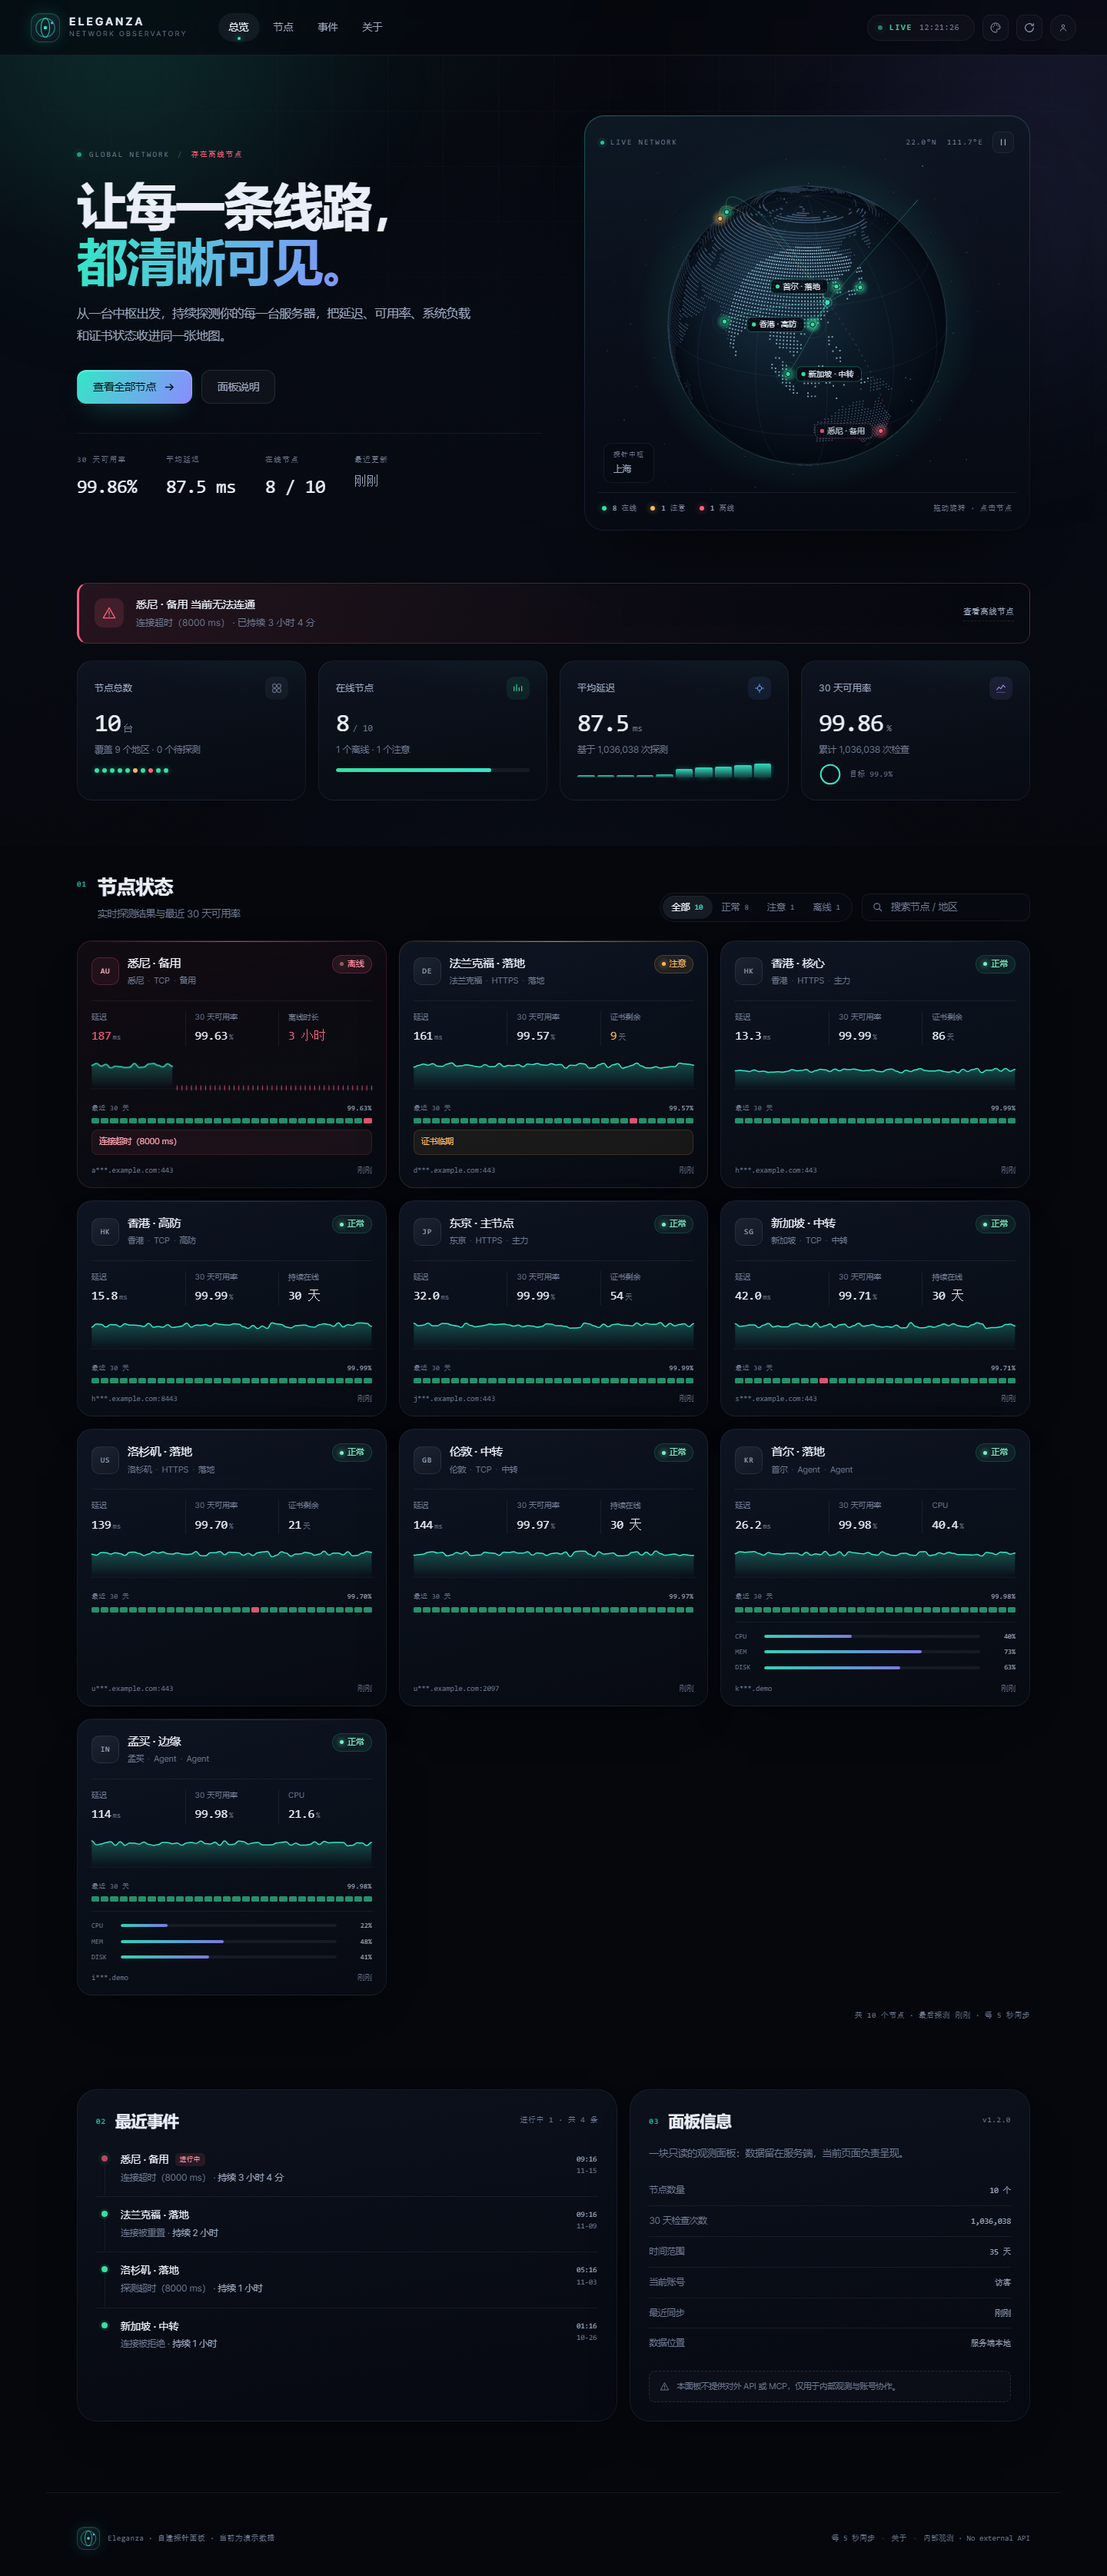
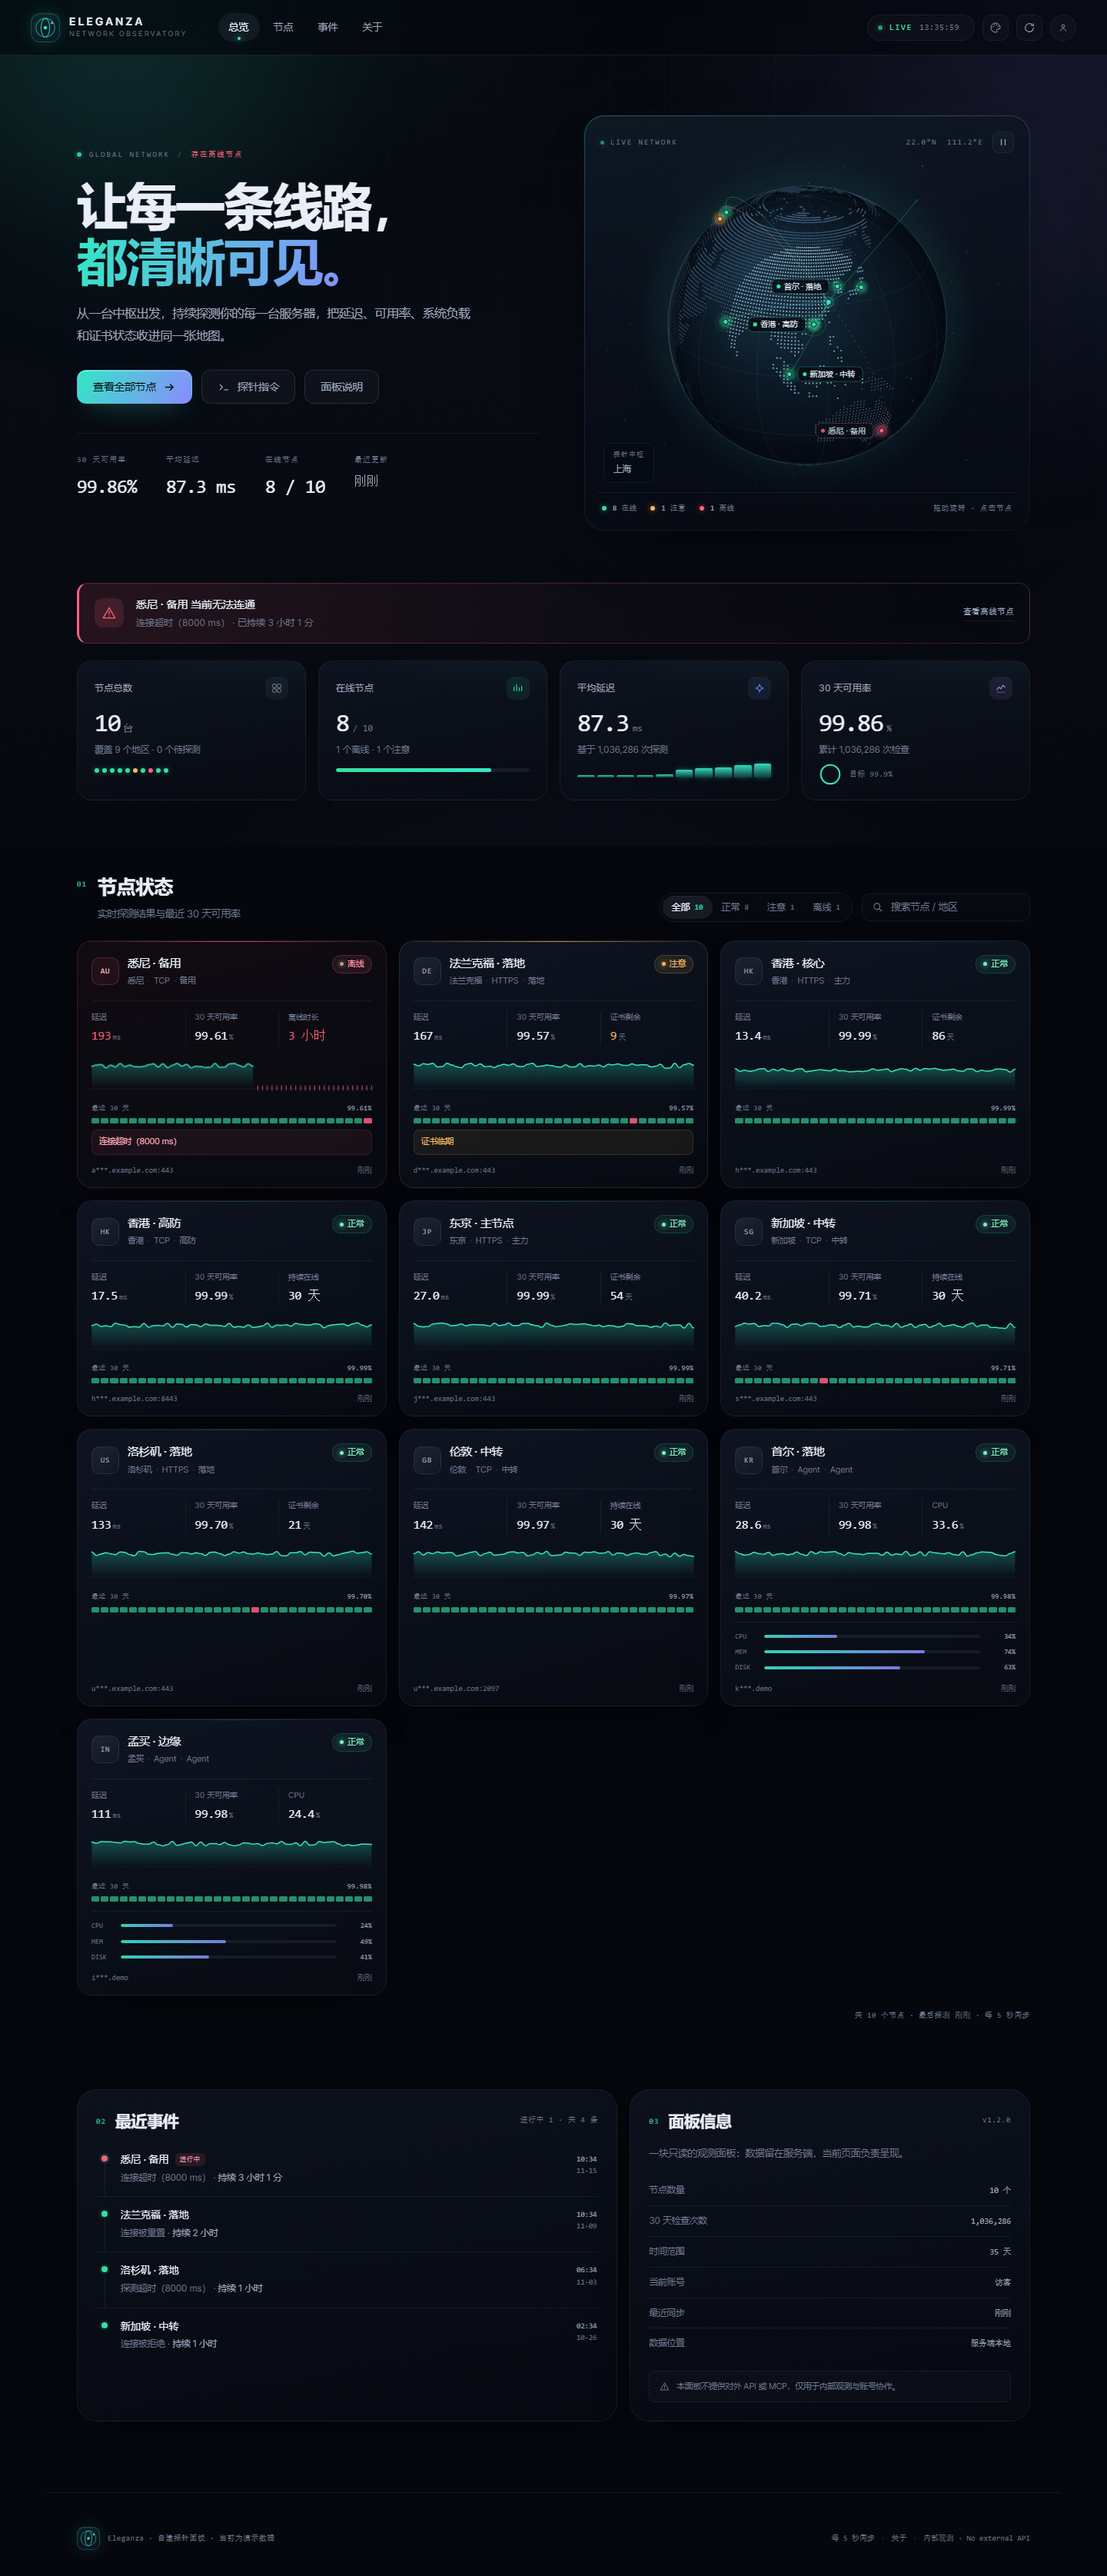
panel: add site-bound probe install command dialog

Changed region(s): [[0.625, 0.0931, 0.7812, 0.1552], [0.75, 0.1552, 0.8125, 0.1863], [0.1562, 0.4036, 0.2188, 0.4346]]

diff --git a/public/app.js b/public/app.js
@@ -53,6 +53,7 @@ const state = {
 const els = {
   clock: $('#clock'),
   refresh: $('#refresh-button'),
+  probeCommandButton: $('#probe-command-button'),
   appearanceButton: $('#appearance-button'),
   appearancePopover: $('#appearance-popover'),
   accountButton: $('#account-button'),
@@ -141,6 +142,27 @@ function escapeHtml(value) {
 function formatNumber(value) {
   if (value == null || !Number.isFinite(Number(value))) return '—';
   return Number(value).toLocaleString('en-US');
+}
+
+async function copyText(text) {
+  try {
+    if (navigator.clipboard?.writeText) {
+      await navigator.clipboard.writeText(text);
+      return;
+    }
+  } catch {
+    // Some HTTP origins expose the API but reject the write; use the fallback.
+  }
+  const area = document.createElement('textarea');
+  area.value = text;
+  area.setAttribute('readonly', '');
+  area.style.position = 'fixed';
+  area.style.top = '-9999px';
+  document.body.append(area);
+  area.select();
+  const copied = document.execCommand('copy');
+  area.remove();
+  if (!copied) throw new Error('copy failed');
 }
 
 function formatLatency(value) {
@@ -1272,6 +1294,63 @@ function closeDialog() {
   if (els.authModal.hidden) document.body.classList.remove('modal-open');
 }
 
+function panelBaseUrl() {
+  const configured = state.overview?.site?.publicUrl;
+  try {
+    const parsed = new URL(configured || location.origin);
+    if (parsed.protocol === 'http:' || parsed.protocol === 'https:') return parsed.origin;
+  } catch {
+    // Fall through to the address currently serving the panel.
+  }
+  return location.origin;
+}
+
+function openProbeCommandDialog() {
+  const base = panelBaseUrl();
+  const fromConfig = Boolean(state.overview?.site?.publicUrl);
+  const fallbackNote = fromConfig
+    ? ''
+    : '<p class="probe-footnote">当前使用浏览器访问地址。如果这是 127.0.0.1 或 SSH 隧道地址，请在 config.json 中把 <code>site.publicUrl</code> 设置为对外域名。</p>';
+  const command = `curl -fsSL https://raw.githubusercontent.com/TCNNM/eleganza/main/agent/install-agent.sh \\
+  | sudo env ELEGANZA_SERVICES="nginx xray" ELEGANZA_MOUNTS="/ /var" \\
+    bash -s -- '${base}' '<AGENT_TOKEN>'`;
+
+  openDialog({
+    kicker: 'AGENT INSTALL',
+    title: '探针快捷安装',
+    subtitle: `当前站点：${base}`,
+    body: `
+      <div class="dialog-section">
+        <p class="dialog-lead">在目标服务器的 SSH 中执行下面命令。脚本会自动下载 Agent、写入 systemd 服务并启动。</p>
+        <div class="info-cell probe-site-cell">
+          <span>当前绑定站点${fromConfig ? ' · site.publicUrl' : ' · 当前访问地址'}</span>
+          <strong>${escapeHtml(base)}</strong>
+        </div>
+        <div class="code-block">
+          <div class="code-head">
+            <span>AGENT INSTALL · SYSTEMD</span>
+            <button class="copy-button" type="button" data-copy-target="probe-command-code" data-label="复制命令">复制命令</button>
+          </div>
+          <pre id="probe-command-code" tabindex="0">${escapeHtml(command)}</pre>
+        </div>
+      </div>
+      <div class="dialog-section">
+        <h3>执行前</h3>
+        <ol class="probe-steps">
+          <li>先在面板的 <code>config.json</code> 中为这台服务器添加 <code>type: "agent"</code> 节点。</li>
+          <li>把命令中的 <code>&lt;AGENT_TOKEN&gt;</code> 替换成该节点的 <code>agentKey</code>。</li>
+          <li>目标服务器需要能访问 <code>${escapeHtml(base)}</code>，并装有 curl 或 wget。</li>
+        </ol>
+        <p class="probe-footnote">每台服务器使用独立的 agentKey。安装完成后用 <code>journalctl -u eleganza-agent -f</code> 查看日志。</p>
+        ${fallbackNote}
+        <a class="panel-link" href="https://github.com/TCNNM/eleganza#agent" target="_blank" rel="noreferrer">
+          查看完整 Agent 安装说明
+          <svg viewBox="0 0 20 20" fill="none" aria-hidden="true"><path d="M7 4h9v9M16 4 6 14" stroke="currentColor" stroke-width="1.5" stroke-linecap="round" stroke-linejoin="round"/></svg>
+        </a>
+      </div>`,
+  });
+}
+
 function dialogError(container, message) {
   let box = container.querySelector('.form-error');
   if (!box) {
@@ -1506,6 +1585,7 @@ function init() {
   setupGlobe();
 
   els.refresh.addEventListener('click', () => refreshOverview());
+  els.probeCommandButton?.addEventListener('click', openProbeCommandDialog);
 
   els.appearanceButton.addEventListener('click', (event) => {
     event.stopPropagation();
@@ -1630,6 +1710,29 @@ function init() {
   document.addEventListener('click', (event) => {
     if (!event.target.closest('.popover') && !event.target.closest('#appearance-button') && !event.target.closest('#account-button')) {
       closePopovers();
+    }
+  });
+  document.addEventListener('click', async (event) => {
+    const button = event.target.closest('[data-copy-target]');
+    if (!button) return;
+    const target = document.getElementById(button.dataset.copyTarget);
+    if (!target) return;
+    const label = button.dataset.label || button.textContent;
+    try {
+      await copyText(target.textContent);
+      button.textContent = '已复制';
+      button.classList.add('is-done');
+      setTimeout(() => {
+        button.textContent = label;
+        button.classList.remove('is-done');
+      }, 1600);
+    } catch {
+      const selection = window.getSelection();
+      const range = document.createRange();
+      range.selectNodeContents(target);
+      selection.removeAllRanges();
+      selection.addRange(range);
+      toast('复制失败，已选中命令，请按 Ctrl+C');
     }
   });
   document.addEventListener('visibilitychange', () => {

diff --git a/public/appearance.css b/public/appearance.css
@@ -803,6 +803,47 @@ body.modal-open {
   color: var(--text-2);
 }
 
+.dialog-lead {
+  margin: 0 0 12px;
+  font-size: 12px;
+  line-height: 1.75;
+  color: var(--text-2);
+}
+
+.probe-site-cell {
+  margin-bottom: 12px;
+}
+
+.probe-steps {
+  margin: 0 0 12px;
+  padding-left: 18px;
+  font-size: 11.5px;
+  line-height: 1.8;
+  color: var(--text-2);
+}
+
+.probe-steps li {
+  margin-bottom: 5px;
+  padding-left: 2px;
+}
+
+.probe-steps code,
+.probe-footnote code {
+  padding: 1px 4px;
+  border-radius: 3px;
+  background: rgba(var(--accent-rgb), 0.07);
+  font-family: var(--font-mono);
+  font-size: 0.92em;
+  color: var(--accent);
+}
+
+.probe-footnote {
+  margin: 0 0 8px;
+  font-size: 10.5px;
+  line-height: 1.7;
+  color: var(--text-3);
+}
+
 .dialog-grid {
   display: grid;
   grid-template-columns: repeat(2, minmax(0, 1fr));
@@ -2178,4 +2219,23 @@ html[data-style="gilded"] .node-card[data-status="offline"] {
 html[data-style="terminal"] .node-card[data-status="warning"],
 html[data-style="gilded"] .node-card[data-status="warning"] {
   border-color: rgba(255, 184, 92, 0.3);
+}
+
+@media (max-width: 680px) {
+  .hero-actions {
+    display: grid;
+    grid-template-columns: repeat(2, minmax(0, 1fr));
+    gap: 8px;
+  }
+
+  .hero-actions .button {
+    width: 100%;
+    padding: 0 12px;
+    flex: none;
+    font-size: 12.5px;
+  }
+
+  .hero-actions .button.primary {
+    grid-column: 1 / -1;
+  }
 }

diff --git a/public/index.html b/public/index.html
@@ -169,6 +169,10 @@
             <span>查看全部节点</span>
             <svg viewBox="0 0 20 20" fill="none" aria-hidden="true"><path d="M4 10h11M11 5.5 15.5 10 11 14.5" stroke="currentColor" stroke-width="1.6" stroke-linecap="round" stroke-linejoin="round"/></svg>
           </a>
+          <button class="button ghost" id="probe-command-button" type="button">
+            <svg viewBox="0 0 20 20" fill="none" aria-hidden="true"><path d="m4 6.5 3.5 3.5L4 13.5M10.5 14H16" stroke="currentColor" stroke-width="1.5" stroke-linecap="round" stroke-linejoin="round"/></svg>
+            <span>探针指令</span>
+          </button>
           <a class="button ghost" href="#about">面板说明</a>
         </div>
         <dl class="hero-metrics">

diff --git a/README.md b/README.md
@@ -62,6 +62,7 @@ Eleganza 把自己定位成 **只读的观测面板**，不接管代理协议、
 
 - **实时地球**：纯 Canvas 绘制的 3D 点阵地球，节点脉冲、中枢弧线、鼠标拖动旋转、点击节点打开详情。
 - **两种探针**：服务端主动探测 HTTP / HTTPS / TCP，支持状态码白名单、关键字、TLS 证书天数；资源类指标由 Agent 反向推送。
+- **探针指令**：首页「探针指令」按钮根据 `site.publicUrl` 生成当前站点的 Agent 快捷安装命令，支持一键复制。
 - **30 天可用率**：按小时聚合的长期桶，按天着色；另有 1h / 24h / 7d / 30d 延迟曲线。
 - **详情抽屉**：延迟趋势、区间可用率、TLS 证书、系统负载、服务状态、历史事件、节点元信息。
 - **事件时间线**：连续失败达到阈值后自动开事件，恢复后自动闭环，并记录持续时长。
@@ -74,6 +75,8 @@ Eleganza 把自己定位成 **只读的观测面板**，不接管代理协议、
 ![节点详情](docs/drawer.png)
 
 ![外观设置](docs/appearance.png)
+
+![探针指令](docs/probe-command.png)
 
 ![用户管理](docs/accounts.png)
 
@@ -164,6 +167,7 @@ curl -fsSL https://raw.githubusercontent.com/TCNNM/eleganza/main/deploy/install-
 - 下载源码到 `/opt/eleganza`
 - 创建系统用户 `eleganza`
 - 生成 `config.json`、`data/` 和 systemd 服务
+- 把选择的面板地址写入 `site.publicUrl`，供首页「探针指令」使用
 - 按选择监听 `0.0.0.0:8787`，启动面板并做健康检查
 - 打印访问地址和首次初始化令牌
 
@@ -248,6 +252,7 @@ cd /opt/eleganza && sudo -u eleganza node tools/create-admin.mjs admin
 | `tagline` | 让每一条线路，都清晰可见。 | 首页主文案 |
 | `description` | 一段说明 | 首页描述 |
 | `footer` | 自建探针面板 | 页脚文字 |
+| `publicUrl` | 空 | 面板对外地址，例如 `https://status.example.com`；用于生成“探针指令”，为空时自动使用当前访问地址 |
 | `hub` | 探针中枢（上海） | 地球上的“探针中枢”坐标：`{ name, lat, lon }` |
 | `refreshSeconds` | `10` | 节点默认探测间隔（每个节点可单独覆盖） |
 | `showAddress` | `false` | 是否公开真实地址；默认打码 |
